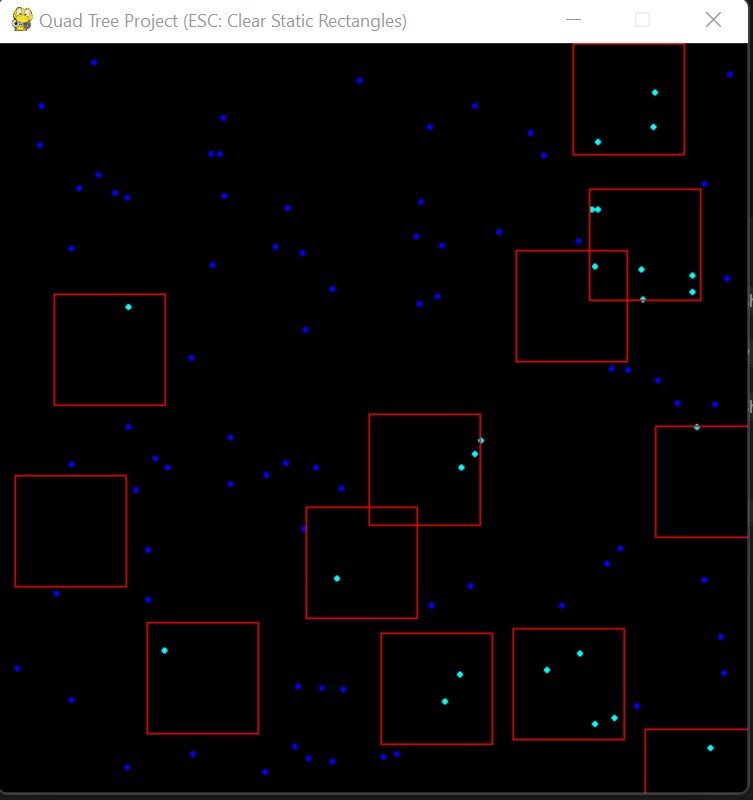
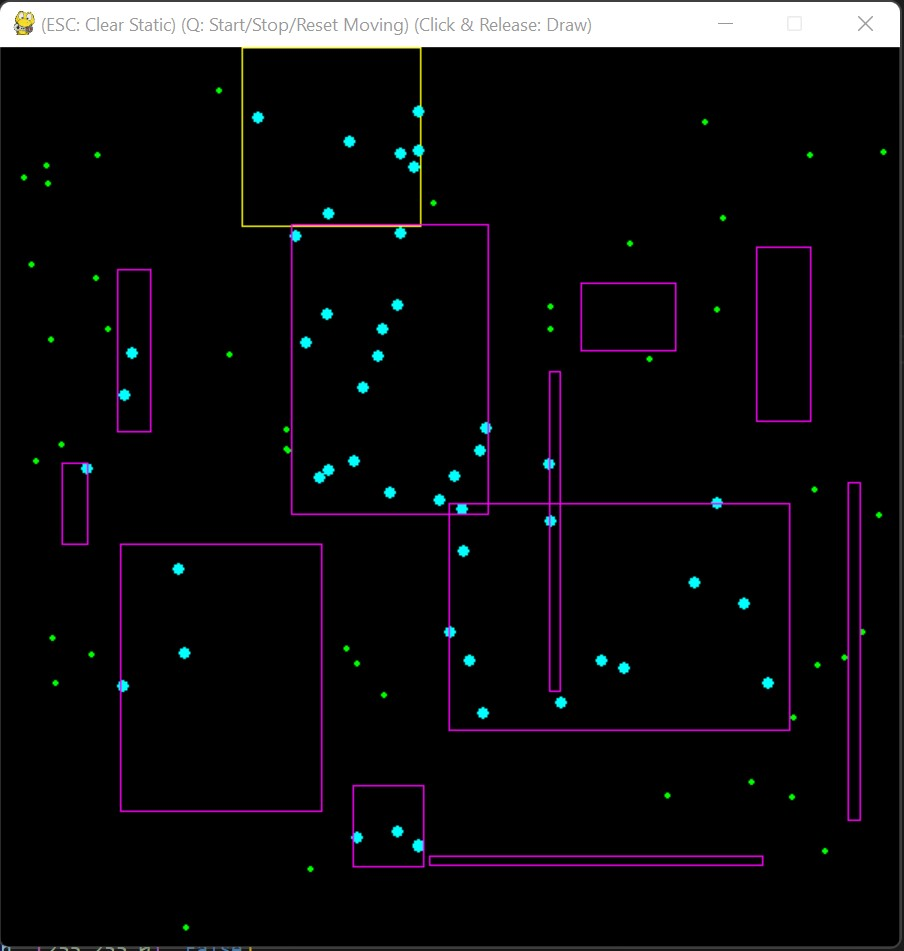
fix for requirments

diff --git a/Assignments/P07/main.py b/Assignments/P07/main.py
@@ -12,7 +12,7 @@ pygame.init()
 clock = pygame.time.Clock()
 
 #size of screen(square)
-size = 500
+size = 600
 
 #buffer used to make sure everything is nicely on the screen
 buffer = 10
@@ -21,13 +21,13 @@ buffer = 10
 radius = buffer / 4
 
 #used to determine size of rectangles(15% of screen size)
-fifteenPercent = size * .15
+twentyPercent = size * .2
 
 # creates the screen
 screen = pygame.display.set_mode((size, size))
 
 # caption for the screen
-pygame.display.set_caption("Quad Tree Project (ESC: Clear Static Rectangles)")
+pygame.display.set_caption("(ESC: Clear Static) (Q: Start/Stop/Reset Moving) (Click & Release: Draw)")
 
 # boolean run case
 exit = False
@@ -36,11 +36,11 @@ exit = False
 points = []
 
 #creates all the points at random locations
-for i in range(100):
-    points.append(Point(random.randint(buffer, size - buffer), random.randint(buffer, size - buffer), radius, screen, (0, 0, 255)))
+for i in range(int((size // 100) * (size // 100) * 2.5)):
+    points.append(Point(random.randint(buffer, size - buffer), random.randint(buffer, size - buffer), radius, screen, (0, 255, 0)))
 
-#moving rectangle
-r = Rectangle(0, 0, fifteenPercent, fifteenPercent, screen, (255,0,0), True)
+#moving rec pointer
+r = None
 
 #list of static rectangles
 recs = []
@@ -62,22 +62,35 @@ while not exit:
     #holds query of moving rectangle
     query = []
 
-    #queries moving rec and stores result in query list
-    qt.query(Rect((r.width / 2) + r.x, (r.height / 2) + r.y, r.width, r.height, screen), query)
+    if r != None:
+        #draws the moving rectangle
+        r.draw()
+        #queries moving rec and stores result in query list
+        qt.query(Rect((r.width / 2) + r.x, (r.height / 2) + r.y, r.width, r.height, screen), query)
 
     for event in pygame.event.get():
 
         # exits the game if x is clicked
         if event.type == pygame.QUIT:
             exit = True
+
+        if event.type == pygame.MOUSEBUTTONDOWN:
+            p1 = pygame.mouse.get_pos()
         
         #places static rectangle on mouse click
         if event.type == pygame.MOUSEBUTTONUP:
-            pos = pygame.mouse.get_pos()
+            p2 = pygame.mouse.get_pos()
             
             #new instance of static rec
-            new_rec = Rectangle(pos[0] - fifteenPercent / 2, pos[1] - fifteenPercent / 2, fifteenPercent, fifteenPercent, screen, (255,0,0), False)
-            
+            if p1[0] <= p2[0] and p1[1] <= p2[1]:
+                new_rec = Rectangle(p1[0], p1[1], p2[0] - p1[0], p2[1] - p1[1], screen, (255,0,255), False)
+            elif p1[0] > p2[0] and p1[1] < p2[1]:
+                new_rec = Rectangle(p2[0], p1[1], p1[0] - p2[0], p2[1] - p1[1], screen, (255,0,255), False)
+            elif p1[0] > p2[0] and p1[1] > p2[1]:
+                new_rec = Rectangle(p2[0], p2[1], p1[0] - p2[0], p1[1] - p2[1], screen, (255,0,255), False)
+            else:
+                new_rec = Rectangle(p1[0], p2[1], p2[0] - p1[0], p1[1] - p2[1], screen, (255,0,255), False)
+
             #queries the new static rectangle
             qt.query(Rect((new_rec.width / 2) + new_rec.x, (new_rec.height / 2) + new_rec.y, new_rec.width, new_rec.height, screen), still_query)
 
@@ -90,30 +103,40 @@ while not exit:
             if event.key == pygame.K_ESCAPE:
                 recs.clear()
                 still_query.clear()
+
+            if event.key == pygame.K_q:
+                #moving rectangle
+                if  r != None and r.Moves == False:
+                    r = Rectangle(0, 0, twentyPercent, twentyPercent, screen, (255,255,0), True)
+                elif r != None:
+                    r = Rectangle(r.x, r.y, twentyPercent, twentyPercent, screen, (255,255,0), False)
+                else:
+                    r = Rectangle(0, 0, twentyPercent, twentyPercent, screen, (255,255,0), True)
+
         
 
     #draws all the points
     for point in points:
-        point.color = (0, 0, 255)
+        point.color = (0, 255, 0)
+        point.radius = radius
         
         #changes points in moving rec
         for p in query:
             if p.x == point.x and p.y == point.y:
                 point.color = (0,255,255)
+                point.radius = 4
 
         #changes points in still recs
         for p in still_query:
             if p.x == point.x and p.y == point.y:
                 point.color = (0,255,255)
+                point.radius = 4
 
         point.draw()
 
     #draws all the static rectangles
     for rec in recs:
         rec.draw()
-
-    #draws the moving rectangle
-    r.draw()
 
     #option to see quad tree
     #qt.draw()
